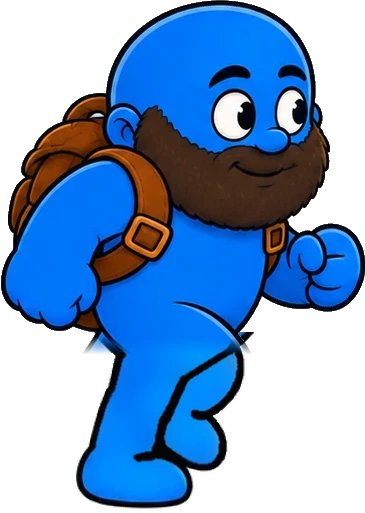
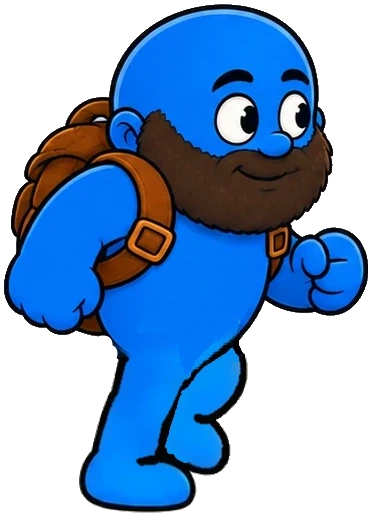
Barbas: «andar contento» con la cintura retocada
Tira devuelta por el usuario recortada con tools/andar/cut.py e instalada
con install_walk.py (displayScale x0.894 porque Barbas no tiene pose_p_camina).

Claude-Session: https://claude.ai/code/session_01VBN88qxmhJjuX63WXxx1DN

Changed region(s): [[0.0, 0.0, 1.0, 0.9981], [0.3616, 0.5614, 0.6932, 0.9669]]

diff --git a/docs/SEGUIR_AQUI.md b/docs/SEGUIR_AQUI.md
@@ -10,7 +10,7 @@ Commits: terminan con `Co-Authored-By: Claude Opus 5.5 <noreply@anthropic.com>` 
 - **Categorías de poses** (`src/lib/catalog/poseCategories.ts`, editables en Recursos, cambios locales + «copiar para Claude» → `src/data/pose-categories.json`).
 - **Recursos**: seleccionar y descargar (.zip, `src/lib/export/zip.ts`); **👄 Dar boca** a poses (`MouthEditor.tsx`, guardadas como LibraryItem kind "talk"; descargar .zip para fijarlas en el repo).
 - El gesto elegido a mano se respeta aunque la pose no tenga boca (👄 marca las que sí).
-- **Andar de verdad**: poses `pose_p_anda1..4` + animación «andar» para **Usu, Reynaldo, Sister, Barbas** (Barbas también `anda_contento1..4` / «andar contento»).
+- **Andar de verdad**: poses `pose_p_anda1..4` + animación «andar» para **Usu, Reynaldo, Sister, Barbas** (Barbas también `anda_contento1..4` / «andar contento», ya con la cintura retocada por el usuario).
 
 ## Cómo se hacen los «andar» (lo que funcionó)
 ChatGPT NO sabe hacer ciclos de andar (no alterna piernas). Solución: **piernas de Usu reutilizadas** (dibujadas/retocadas a mano por el usuario).
@@ -23,8 +23,7 @@ ChatGPT NO sabe hacer ciclos de andar (no alterna piernas). Solución: **piernas
 7. Tests, commit y push.
 
 ## Pendiente
-- **El Jefe**: falta su «andar» (esperar su imagen de perfil).
-- Retocar «andar contento» de Barbas si el usuario lo devuelve.
+- **El Jefe**: falta su «andar». Ya hay tira de ChatGPT y trasplante de piernas de Usu hecho (paso 3); se le mandó la tira y el GIF y falta que devuelva la cintura retocada (pasos 5–6).
 - Pasar los capítulos ya hechos a columnas (gestos/entra/sale/teclea/huye → `acciones`).
 - Rehacer «¿Está en vigor?» sentados a la mesa (espera arte de cafetería: poses sentados, mesa, fondo con vida).
 - «Emoción» del editor: no hace nada con poses de Puñeto (dibujos enteros). Propuesto: que cambie tono de voz + icono de cómic, o quitarla. Sin respuesta.
